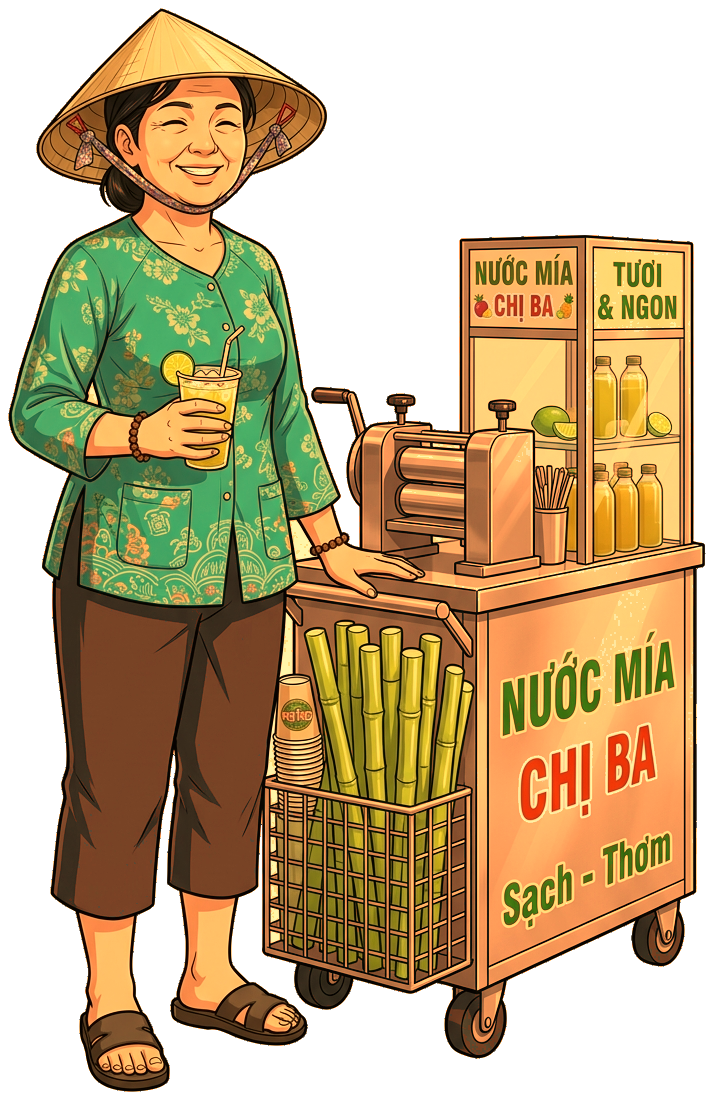
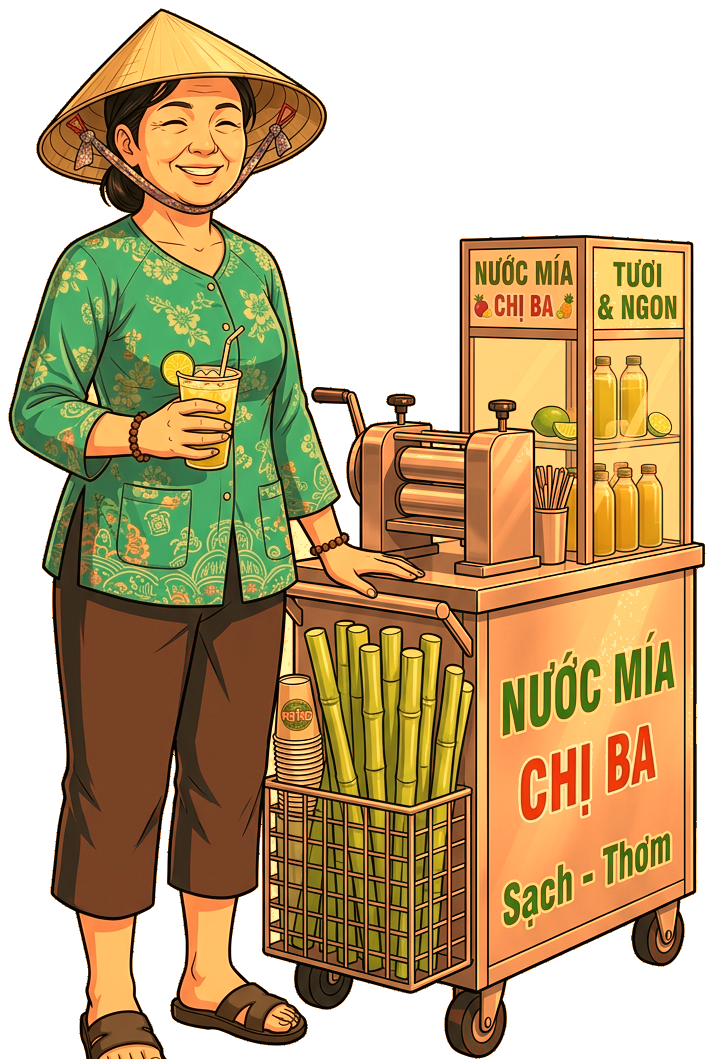
fix(npc): resolve NPC hovering gap, fix dog occlusion z-order, and add lively idle animations

diff --git a/src/game/rendering/StageNpcRenderer.ts b/src/game/rendering/StageNpcRenderer.ts
@@ -105,6 +105,7 @@ export class StageNpcRenderer {
 
   public render(ctx: CanvasRenderingContext2D, camera: Camera, npc: NPC, playerX?: number): boolean {
     const isNear = playerX !== undefined && Math.abs(playerX - (npc.x + npc.width / 2)) < 90;
+    const time = performance.now() / 1000;
 
     if (npc.role === 'chutu') {
       if (!this.ready || !this.chutu) return false;
@@ -126,10 +127,16 @@ export class StageNpcRenderer {
       // Dual-layer grounded shadow
       this.drawGroundedShadow(ctx, feet.x, feet.y, 34, 6);
 
-      // Character sprite with sunset grading
+      // Subtle breathing idle animation
+      const breathScaleY = 1 + Math.sin(time * 2.2) * 0.012;
+      const breathScaleX = 1 - Math.sin(time * 2.2) * 0.008;
+
+      ctx.save();
+      ctx.translate(feet.x, feet.y);
+      ctx.scale(breathScaleX, breathScaleY);
       this.applyEnvironmentBlend(ctx, false);
-      ctx.drawImage(this.chutu, Math.round(feet.x - w / 2), Math.round(feet.y - h), w, h);
-      ctx.filter = 'none';
+      ctx.drawImage(this.chutu, -Math.round(w / 2), -h, w, h);
+      ctx.restore();
 
       // Context-sensitive callout: ONLY show text bubble when player is within range!
       if (isNear || (playerX !== undefined && Math.abs(playerX - (npc.x + npc.width / 2)) < 130)) {
@@ -150,20 +157,71 @@ export class StageNpcRenderer {
     }
 
     if (npc.role === 'chiba' && this.chiba) {
-      const feet = camera.worldToScreen(npc.x + npc.width / 2 + 8, npc.y + npc.height);
+      // Ground firmly on sidewalk pavement (Y=622) so sandals and wheels sink 2px into concrete cracks
+      const screenX = camera.worldToScreen(npc.x + npc.width / 2 + 8, 0).x;
+      const groundY = camera.worldToScreen(0, 622).y;
+      const feet = { x: screenX, y: groundY };
       const h = 126;
       const w = h * (this.chiba.naturalWidth / this.chiba.naturalHeight);
       ctx.save();
       ctx.imageSmoothingEnabled = true;
       ctx.imageSmoothingQuality = 'high';
 
-      // Floor Shadow under feet and cart wheels
-      this.drawGroundedShadow(ctx, feet.x, feet.y, w * 0.44, 6);
+      // Dual contact shadows: firmly under sandals and cart wheels
+      this.drawGroundedShadow(ctx, feet.x - w * 0.22, feet.y, 22, 5);
+      this.drawGroundedShadow(ctx, feet.x + w * 0.24, feet.y, 28, 5);
 
-      // Sprite with sunset blend
+      // Subtle breathing & gentle vertical bobbing
+      const breathScaleY = 1 + Math.sin(time * 2.4) * 0.012;
+      const breathScaleX = 1 - Math.sin(time * 2.4) * 0.008;
+      const torsoBounce = Math.sin(time * 2.4) * 0.7;
+
+      ctx.save();
+      ctx.translate(feet.x, feet.y);
+      ctx.scale(breathScaleX, breathScaleY);
       this.applyEnvironmentBlend(ctx, false);
-      ctx.drawImage(this.chiba, Math.round(feet.x - w / 2), Math.round(feet.y - h), w, h);
-      ctx.filter = 'none';
+      ctx.drawImage(this.chiba, -Math.round(w / 2), -h + torsoBounce, w, h);
+      ctx.restore();
+
+      // Rotating sugarcane press crank wheel with metallic glint
+      ctx.save();
+      ctx.translate(feet.x + w * 0.12, feet.y - h * 0.52);
+      ctx.rotate(time * 3.5);
+      ctx.strokeStyle = '#b45309';
+      ctx.lineWidth = 2.5;
+      ctx.beginPath();
+      ctx.moveTo(-6, 0);
+      ctx.lineTo(6, 0);
+      ctx.stroke();
+      ctx.fillStyle = '#fef08a';
+      ctx.beginPath();
+      ctx.arc(6, 0, 2.5, 0, Math.PI * 2);
+      ctx.fill();
+      ctx.restore();
+
+      // Rising crushed ice mist vapor particles from ice box
+      ctx.save();
+      for (let i = 0; i < 3; i++) {
+        const pTime = (time * 0.75 + i * 0.6) % 1.8;
+        const pProgress = pTime / 1.8;
+        const pX = feet.x + w * 0.28 + Math.sin(time * 2.0 + i) * 5;
+        const pY = feet.y - h * 0.46 - pProgress * 24;
+        const pAlpha = (1 - pProgress) * 0.38;
+        ctx.fillStyle = `rgba(240, 249, 255, ${pAlpha})`;
+        ctx.beginPath();
+        ctx.arc(pX, pY, 2.5 + pProgress * 3.5, 0, Math.PI * 2);
+        ctx.fill();
+      }
+      ctx.restore();
+
+      // Lime slice glint on iced sugarcane juice cup
+      ctx.save();
+      const glintPulse = 0.4 + Math.sin(time * 3.5) * 0.35;
+      ctx.fillStyle = `rgba(254, 240, 138, ${glintPulse})`;
+      ctx.beginPath();
+      ctx.arc(feet.x - w * 0.28, feet.y - h * 0.62, 3, 0, Math.PI * 2);
+      ctx.fill();
+      ctx.restore();
 
       // Context-sensitive callout: ONLY show bubble when player is nearby (< 90px)
       if (isNear) {
@@ -187,21 +245,53 @@ export class StageNpcRenderer {
     }
 
     if (npc.role === 'chubay' && this.chubay) {
-      const feet = camera.worldToScreen(npc.x + npc.width / 2, npc.y + npc.height);
-      // Realistic sitting height on low plastic stool (88px vs standing player ~135px)
-      const h = 88;
+      // Ground firmly on sidewalk pavement (Y=622) so stool legs, toolbox, and sandals plant solidly
+      const screenX = camera.worldToScreen(npc.x + npc.width / 2, 0).x;
+      const groundY = camera.worldToScreen(0, 622).y;
+      const feet = { x: screenX, y: groundY };
+      const h = 92;
       const w = h * (this.chubay.naturalWidth / this.chubay.naturalHeight);
       ctx.save();
       ctx.imageSmoothingEnabled = true;
       ctx.imageSmoothingQuality = 'high';
 
-      // Floor Shadow under stool legs and tire
-      this.drawGroundedShadow(ctx, feet.x, feet.y, w * 0.42, 5);
+      // Triple grounded contact shadows: under toolbox, stool/front sandal, and right sandal
+      this.drawGroundedShadow(ctx, feet.x - w * 0.32, feet.y - 4, 30, 5);
+      this.drawGroundedShadow(ctx, feet.x, feet.y, 28, 5);
+      this.drawGroundedShadow(ctx, feet.x + w * 0.34, feet.y - 2, 18, 4);
 
-      // Sprite with sunset blend
+      // Sitting posture breathing deformation
+      const breathScaleY = 1 + Math.sin(time * 2.0) * 0.015;
+      const breathScaleX = 1 - Math.sin(time * 2.0) * 0.008;
+
+      ctx.save();
+      ctx.translate(feet.x, feet.y);
+      ctx.scale(breathScaleX, breathScaleY);
       this.applyEnvironmentBlend(ctx, false);
-      ctx.drawImage(this.chubay, Math.round(feet.x - w / 2), Math.round(feet.y - h), w, h);
-      ctx.filter = 'none';
+      ctx.drawImage(this.chubay, -Math.round(w / 2), -h, w, h);
+      ctx.restore();
+
+      // Tire pump air hiss / steam puff every 2.8s
+      const pumpPhase = (time % 2.8) / 2.8;
+      if (pumpPhase < 0.35) {
+        const puffProg = pumpPhase / 0.35;
+        const puffAlpha = (1 - puffProg) * 0.55;
+        ctx.save();
+        ctx.fillStyle = `rgba(241, 245, 249, ${puffAlpha})`;
+        ctx.beginPath();
+        ctx.arc(feet.x - w * 0.38 - puffProg * 14, feet.y - 10 - puffProg * 6, 2.5 + puffProg * 4, 0, Math.PI * 2);
+        ctx.fill();
+        ctx.restore();
+      }
+
+      // Wrench metallic glint highlight in hand
+      ctx.save();
+      const wrenchGlint = 0.35 + Math.sin(time * 2.8) * 0.35;
+      ctx.fillStyle = `rgba(255, 255, 255, ${wrenchGlint})`;
+      ctx.beginPath();
+      ctx.arc(feet.x + w * 0.22, feet.y - h * 0.56, 2.5, 0, Math.PI * 2);
+      ctx.fill();
+      ctx.restore();
 
       // Context-sensitive callout: ONLY show bubble when player is nearby (< 90px)
       if (isNear) {
@@ -226,17 +316,31 @@ export class StageNpcRenderer {
 
     if (npc.role === 'banam' && this.banam) {
       const feet = camera.worldToScreen(npc.x + npc.width / 2, npc.y + npc.height);
-      // Proportionate grandmother behind balcony railing
-      const h = 96;
+      const h = 98;
       const w = h * (this.banam.naturalWidth / this.banam.naturalHeight);
       ctx.save();
       ctx.imageSmoothingEnabled = true;
       ctx.imageSmoothingQuality = 'high';
 
-      // Sprite on balcony with sunset blend
+      // Gentle grandmother breathing & head nod
+      const nod = Math.sin(time * 1.5) * 0.8;
+      const breathScaleY = 1 + Math.sin(time * 1.8) * 0.01;
+
+      ctx.save();
+      ctx.translate(feet.x, feet.y);
+      ctx.scale(1, breathScaleY);
       this.applyEnvironmentBlend(ctx, false);
-      ctx.drawImage(this.banam, Math.round(feet.x - w / 2), Math.round(feet.y - h), w, h);
-      ctx.filter = 'none';
+      ctx.drawImage(this.banam, -Math.round(w / 2), -h + nod, w, h);
+      ctx.restore();
+
+      // Balcony orchid gentle blossom glow / breeze sway
+      ctx.save();
+      const orchidGlow = 0.25 + Math.sin(time * 2.2) * 0.2;
+      ctx.fillStyle = `rgba(232, 121, 249, ${orchidGlow})`;
+      ctx.beginPath();
+      ctx.arc(feet.x - w * 0.35, feet.y - h * 0.62 + Math.sin(time * 1.8) * 1.2, 3, 0, Math.PI * 2);
+      ctx.fill();
+      ctx.restore();
 
       // Context-sensitive talk bubble: ONLY show when player is nearby
       if (isNear) {
@@ -264,10 +368,11 @@ export class StageNpcRenderer {
 
   public renderBrat(ctx: CanvasRenderingContext2D, camera: Camera, brat: AlleyBrat): boolean {
     if (!this.brat) return false;
-    const feet = camera.worldToScreen(brat.x + brat.width / 2, brat.y + brat.height);
-    // Proportionate 9-year-old child standing on awning (62px vs adult player 135px)
+    // Ground +10px offset firmly onto wooden awning surface
+    const feet = camera.worldToScreen(brat.x + brat.width / 2, brat.y + brat.height + 10);
     const h = 62;
     const w = h * (this.brat.naturalWidth / this.brat.naturalHeight);
+    const time = performance.now() / 1000;
 
     ctx.save();
     ctx.imageSmoothingEnabled = true;
@@ -277,21 +382,25 @@ export class StageNpcRenderer {
     this.drawGroundedShadow(ctx, feet.x, feet.y, w * 0.32, 4);
 
     const flip = brat.facing === 'left';
+    const isKO = brat.state === 'KO';
+    const bratBounce = isKO ? 0 : Math.sin(time * 5.0) * 1.0;
+    const aimBob = brat.state === 'AIM' ? Math.sin(time * 6.0) * 2.0 : 0;
+
     ctx.save();
-    this.applyEnvironmentBlend(ctx, brat.state === 'KO');
+    this.applyEnvironmentBlend(ctx, isKO);
     if (flip) {
       ctx.translate(feet.x, 0);
       ctx.scale(-1, 1);
-      ctx.drawImage(this.brat, -Math.round(w / 2), Math.round(feet.y - h), w, h);
+      ctx.drawImage(this.brat, -Math.round(w / 2), Math.round(feet.y - h + bratBounce), w, h);
     } else {
-      ctx.drawImage(this.brat, Math.round(feet.x - w / 2), Math.round(feet.y - h), w, h);
+      ctx.drawImage(this.brat, Math.round(feet.x - w / 2), Math.round(feet.y - h + bratBounce), w, h);
     }
     ctx.restore();
 
     // Aiming laser beam when in AIM state
     if (brat.state === 'AIM') {
       const muzzleX = feet.x + (flip ? -20 : 20);
-      const muzzleY = feet.y - h * 0.52;
+      const muzzleY = feet.y - h * 0.52 + aimBob;
       const targetDirX = flip ? -1 : 1;
       ctx.strokeStyle = 'rgba(239, 68, 68, 0.85)';
       ctx.lineWidth = 2;
@@ -308,8 +417,19 @@ export class StageNpcRenderer {
       ctx.fill();
     }
 
+    // Toy water gun nozzle droplet drip every 1.6s
+    const dripTime = (time % 1.6) / 1.6;
+    if (!isKO && dripTime < 0.6) {
+      const dripProg = dripTime / 0.6;
+      const dripY = (feet.y - h * 0.52 + aimBob) + dripProg * 18;
+      ctx.fillStyle = `rgba(56, 189, 248, ${(1 - dripProg) * 0.8})`;
+      ctx.beginPath();
+      ctx.arc(feet.x + (flip ? -20 : 20), dripY, 1.8, 0, Math.PI * 2);
+      ctx.fill();
+    }
+
     // Comic KO status (no permanent distracting yellow billboard)
-    if (brat.state === 'KO') {
+    if (isKO) {
       ctx.fillStyle = 'rgba(15, 23, 42, 0.85)';
       ctx.fillRect(feet.x - 24, feet.y - h - 18, 48, 16);
       ctx.fillStyle = '#cbd5e1';
@@ -456,9 +576,10 @@ export class StageNpcRenderer {
 
   public renderRat(ctx: CanvasRenderingContext2D, camera: Camera, rat: AlleyRat): boolean {
     if (!this.rat) return false;
-    const feet = camera.worldToScreen(rat.x + rat.width / 2, rat.y + rat.height);
+    const feet = camera.worldToScreen(rat.x + rat.width / 2, rat.y + rat.height + 2);
     const h = 32;
     const w = h * (this.rat.naturalWidth / this.rat.naturalHeight);
+    const time = performance.now() / 1000;
 
     ctx.save();
     ctx.imageSmoothingEnabled = true;
@@ -468,6 +589,10 @@ export class StageNpcRenderer {
     this.drawGroundedShadow(ctx, feet.x, feet.y, w * 0.4, 4);
 
     const flip = rat.facing === 'left';
+    const isKO = rat.state === 'KO';
+    const tailWiggle = isKO ? 0 : Math.sin(time * 14.0) * 1.5;
+    const sniffBob = isKO ? 0 : Math.sin(time * 16.0) * 0.8;
+
     ctx.save();
     this.applyEnvironmentBlend(ctx, rat.state === 'HURT');
     const shakeX = rat.state === 'HURT' ? Math.sin(Date.now() * 0.05) * 3 : 0;
@@ -475,9 +600,9 @@ export class StageNpcRenderer {
     if (flip) {
       ctx.translate(feet.x + shakeX, 0);
       ctx.scale(-1, 1);
-      ctx.drawImage(this.rat, -Math.round(w / 2), Math.round(feet.y - h), w, h);
+      ctx.drawImage(this.rat, -Math.round(w / 2) + tailWiggle, Math.round(feet.y - h + sniffBob), w, h);
     } else {
-      ctx.drawImage(this.rat, Math.round(feet.x - w / 2) + shakeX, Math.round(feet.y - h), w, h);
+      ctx.drawImage(this.rat, Math.round(feet.x - w / 2) + shakeX + tailWiggle, Math.round(feet.y - h + sniffBob), w, h);
     }
     ctx.restore();
 

diff --git a/src/game/rendering/Renderer.ts b/src/game/rendering/Renderer.ts
@@ -1444,13 +1444,6 @@ export class Renderer {
         this.renderEntityAlleyBrat(camera, brat);
       }
     }
-
-    // 10. Ambient Street NPCs (Chị Ba Nước Mía, Chú Bảy Sửa Xe, Bà Năm Ban Công)
-    if (hazards.streetNpcs && hazards.streetNpcs.length > 0) {
-      for (const npc of hazards.streetNpcs) {
-        this.renderStreetNpc(camera, npc, player.x);
-      }
-    }
   }
 
   private renderEntityAlleyBrat(camera: Camera, brat: AlleyBrat): void {
@@ -2446,7 +2439,14 @@ export class Renderer {
     if (this.v19Visuals.isReady()) for (const pickup of pickups) this.v19Visuals.renderPickup(this.ctx, camera, pickup);
     else PlaceholderRenderer.renderPickups(this.ctx, camera, pickups);
 
-    // 5. Entities (with safe fallback to placeholder)
+    // 5. Ambient Street NPCs (storefront sidewalk background layer behind combat entities)
+    if (stageHazards?.streetNpcs && stageHazards.streetNpcs.length > 0) {
+      for (const npc of stageHazards.streetNpcs) {
+        this.renderStreetNpc(camera, npc, player.x);
+      }
+    }
+
+    // 6. Entities (with safe fallback to placeholder)
     if (!this.stageNpc.render(this.ctx, camera, customer, player.x)) PlaceholderRenderer.renderNPC(this.ctx, camera, customer);
 
     for (const d of dogs) {
